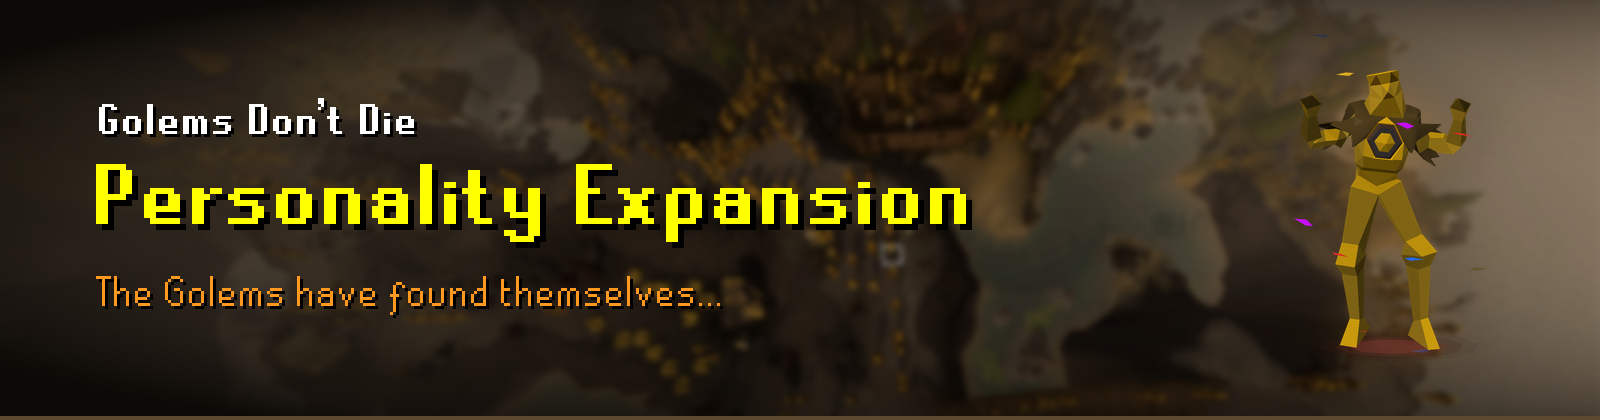
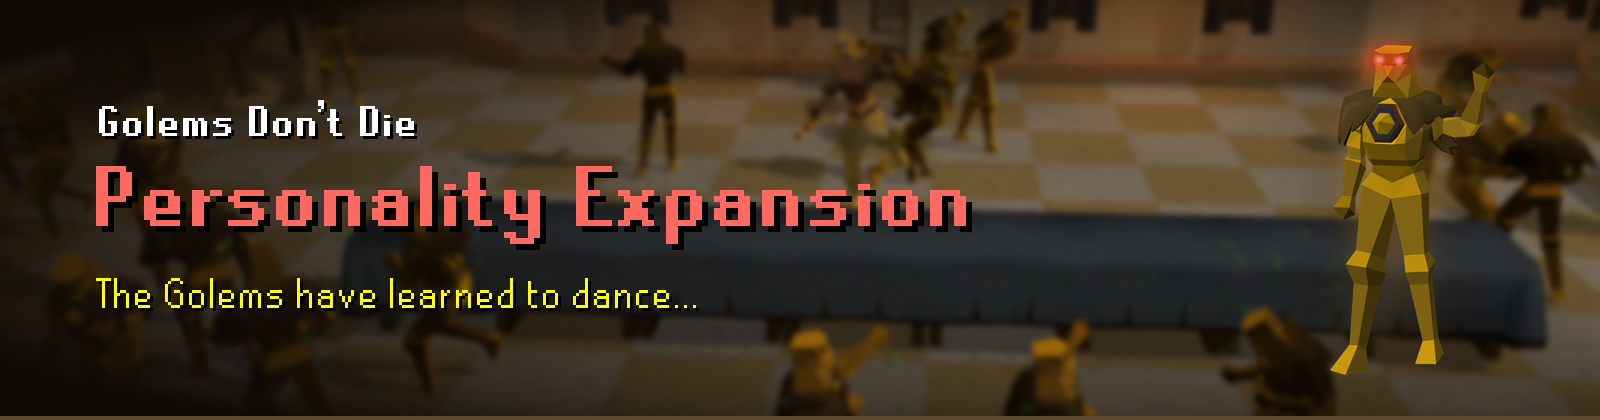
The Personality Expansion in the README, with its header
The README leads with the Personality Expansion: its header, golems dancing in a hall and a golem
waving over the update's shots, the Golem Info window shown whole, then a word on the update and
how to interact with golems, with the Exploration Expansion beneath it. Credits gain Location
Display, whose region names the plugin's place names start from, and Lost City, whose 2004 scripts
check staircase landings; the collision map is now built from the game's own cache.

diff --git a/README.md b/README.md
@@ -10,11 +10,26 @@ You can even name them.
 ---
 
 **NEW UPDATE**
+![Personality Expansion: golems dancing, waving, crewing boats and keeping journals](media/personality-expansion.jpg)
+
+The golems have begun to work together and celebrate the little things in life.
+
+Crews will now form when multiple golems wish to sail, celebrations will occur when the player achieves different things, and each golem now has a profile describing their personality and journey so far. Various small social interactions included.
+
+Golems are now present on the world map, and the sidebar UI has been reworked and extended.
+
+The pathfinding and collision model has been completely reworked.
+
+
+
+---
+
+**PREVIOUS UPDATE**
 ![Exploration Expansion: golems sailing, climbing, hopping stones and exploring dungeons](media/exploration-expansion.jpg)
 
 The golems figured out Sailing. They've trained Agility. They've even done quests.
 
-### They explore.
+#### They explore.
 
 Golems now inherit your characters capabilities - they can access the same agility shortcuts and quest areas you can, and are *mostly* capable of getting there.
 
@@ -34,18 +49,18 @@ They can sail, use shortcuts, activate travel systems such as fairy rings or spi
 | Limit golems | Off | Cap golems, for anyone who notices the framerate dip after crafting 1000+ golems. |
 | Maximum golems | 25 | The cap, when Limit golems is on. |
 | Show golem names | On | Show golem names above their head. |
-| Name colour | Yellow (#FFE700) | The colour of the golem names. |
+| Name colour | Yellow (#FFE700) | The colour of the golem names, and how transparent they are. |
 | World map | Named | Draws golems on the world map: Off, Named (golems you have named or starred) or All. Golems too close together to draw apart become one face with a count. |
 | Restrict Golem ambition | Off | Keeps golems on Wyrmscraig. Golems do not sail, and any that are elsewhere return to Wyrmscraig. |
-| Auto name golems | Off | Gives golems you have not named one anyway, in the name style below. A golem always gets the same name, and one you type yourself is kept whatever this is set to. |
-| Name style | Default | The names auto naming gives. Default: a name from Gielinor and a surname off the rocks, like Reginald Scree or Megan Gneiss. Ordinal: the order the golem was crafted in, in Latin: Primus, Vicesimus Septimus, Bis Millesimus Quingentesimus Nonagesimus Sextus. |
+| Auto name golems | Off | Gives golems you have not named one anyway, in the name style below. A golem always gets the same name, and one you type yourself takes priority. |
+| Name style | Default | The names auto naming gives. Default: a name from OSRS and a surname off the rocks. Ordinal: the order the golem was crafted in, in Latin.
 | Enable sidebar | On | Shows the Golems tab. With it off, missing golems can still be revived by right-clicking a golem plinth. |
 | Path to a golem being found | On | While you are finding a golem, the [Shortest Path](https://github.com/Skretzo/shortest-path) plugin draws the way to it. Does nothing without Shortest Path installed. |
 | Golems join your ship | On | Golems standing near your boat when you step aboard come too. Not while golem ambition is restricted. |
 
 **Celebrations**
 
-Golems in view stop what they are doing, dance for about ten seconds and set off fireworks.
+Golems in view stop what they are doing, dancing and setting off fireworks.
 
 | Setting | Default | |
 |---|---|---|
@@ -54,51 +69,31 @@ Golems in view stop what they are doing, dance for about ten seconds and set off
 | Golem crafted | Off | Golems dance each time you craft another golem. |
 | Quest complete | On | Golems dance when you finish a quest or miniquest. |
 | Achievement diary | On | Golems dance when you finish a tier of an achievement diary. |
-| Combat achievement | On | Golems dance when you complete a combat task. |
-| Pet | On | Golems dance when a pet finds you. |
-| Personal best | On | Golems dance when you beat your best time at a boss, a raid or a course. |
+| Combat achievement | On | Golems dance when you complete a CA. |
+| Pet | On | Golems dance when you receive a pet. |
+| Personal best | On | Golems dance when you get a new PB. |
 | Clue scroll | Off | Golems dance when you finish a clue scroll. |
 
 
-## Finding a golem
+## Interactions
 
-The sidebar lists your golems nearest first, fifteen to a page, with a search box for names. Under
-each name is where that golem is: "Catherby", "Taverley Dungeon", "Sailing to Port Khazard".
-
-Star a golem to keep it at the top of the list, wherever it is.
-
-Right-click either carving plinth on Wyrmscraig to revive missing golems without the sidebar. The
-option carries the number missing, and is only there while any are.
-
-With **Auto name golems** on, the ones you have not named are called something anyway: above
-their heads, on their page and in the map's tooltips, and dimmed in the list so a name you typed
-still reads as yours. Only names you give are written on the world map itself. Nothing is written
-down: a golem keeps its name because the name comes from the golem, and turning the setting off
-leaves them all plain golems again.
-
-In the **Ordinal** style a golem is named for the order it was crafted in. Golems you had before
-this are numbered oldest first, and every golem crafted after takes the next number. The list runs
-to fifty thousand; the fifty-one-thousandth golem and every one after it is Ultimus.
-
-**Find** points an arrow at a golem and keeps it there as the golem moves, until you come within
-eight tiles of it or stop looking. While you are looking, that golem is the only one on the world
-map, its face sticks to the edge of the map when you pan away from it, and an infobox says how far
-off it is; right-click it to stop. With Shortest Path installed, the way there is drawn too.
-
-On the map, a named golem wears its name. Hover any face to see where it is.
-
-
-## Your ship
-
-Golems standing near you when you step aboard come with you (starred golems first, then
-named ones) and stand at the rail looking out while you sail. They step off where you do. Leave
-the boat any other way, by teleport or by logging out, and they go back to the quay they boarded
-from.
+- You can use the sidebar to rename golems, open their info page, or track them so you can find them ingame.
+- You can respawn golems that the plugin didn't see you craft, so you don't miss out on golems if you installed the plugin late, or did some crafting on mobile. This can be done either through the sidebar or right clicking the plinth. If you aren't missing any, it won't appear.
+- You can emote at golems that you find in the world and they may mimic you.
+- Golems nearby will come on your ship with you when you set sail.
+- Golems can be quickly renamed or have their info shown by shift-right-clicking them.
+- You can star golems, which makes them always visible on the sidebar list, the map, and prioritises them joining your ship.
+- You can search for a particular golem in the sidebar.
+- Golems will learn how to use obstacles, entrances, and other transports based on what your player does. They may ignore certain paths or obstacles until you perform them yourself.
 
 
 ## Credits
 
-Collision map and transport data from [Shortest Path](https://github.com/Skretzo/shortest-path) by Skretzo. 
+Transport data from [Shortest Path](https://github.com/Skretzo/shortest-path) by Skretzo, which also
+draws the way to a golem being found. The collision map is now built from the game's own cache instead.
+
+Place names from the region list in [Location Display](https://github.com/trinhc2/Location-Display) by
+trinhc2, alongside the world map's own labels.
 
 Model and animation technique from
 [Creator's Kit](https://github.com/ScreteMonge/creators-kit) by ScreteMonge. 
@@ -108,7 +103,7 @@ on [Turning Circles](https://github.com/anmcgrath/turning-circles) by anmcgrath.
 
 Dancing contributed by [NathanVegetable](https://github.com/Varzeki/golems-dont-die/pull/1), who took
 the idea from [Dance Party](https://github.com/dekvall/runelite-external-plugins/tree/dance-party) by
-dekvall. Fireworks after [Death Party](https://github.com/DangItOSRS/death-party) by DangItOSRS. 
+dekvall. 
 
 Latin ordinal names from the list [Hjaldr](https://github.com/Varzeki/golems-dont-die/issues/2)
 contributed. 
